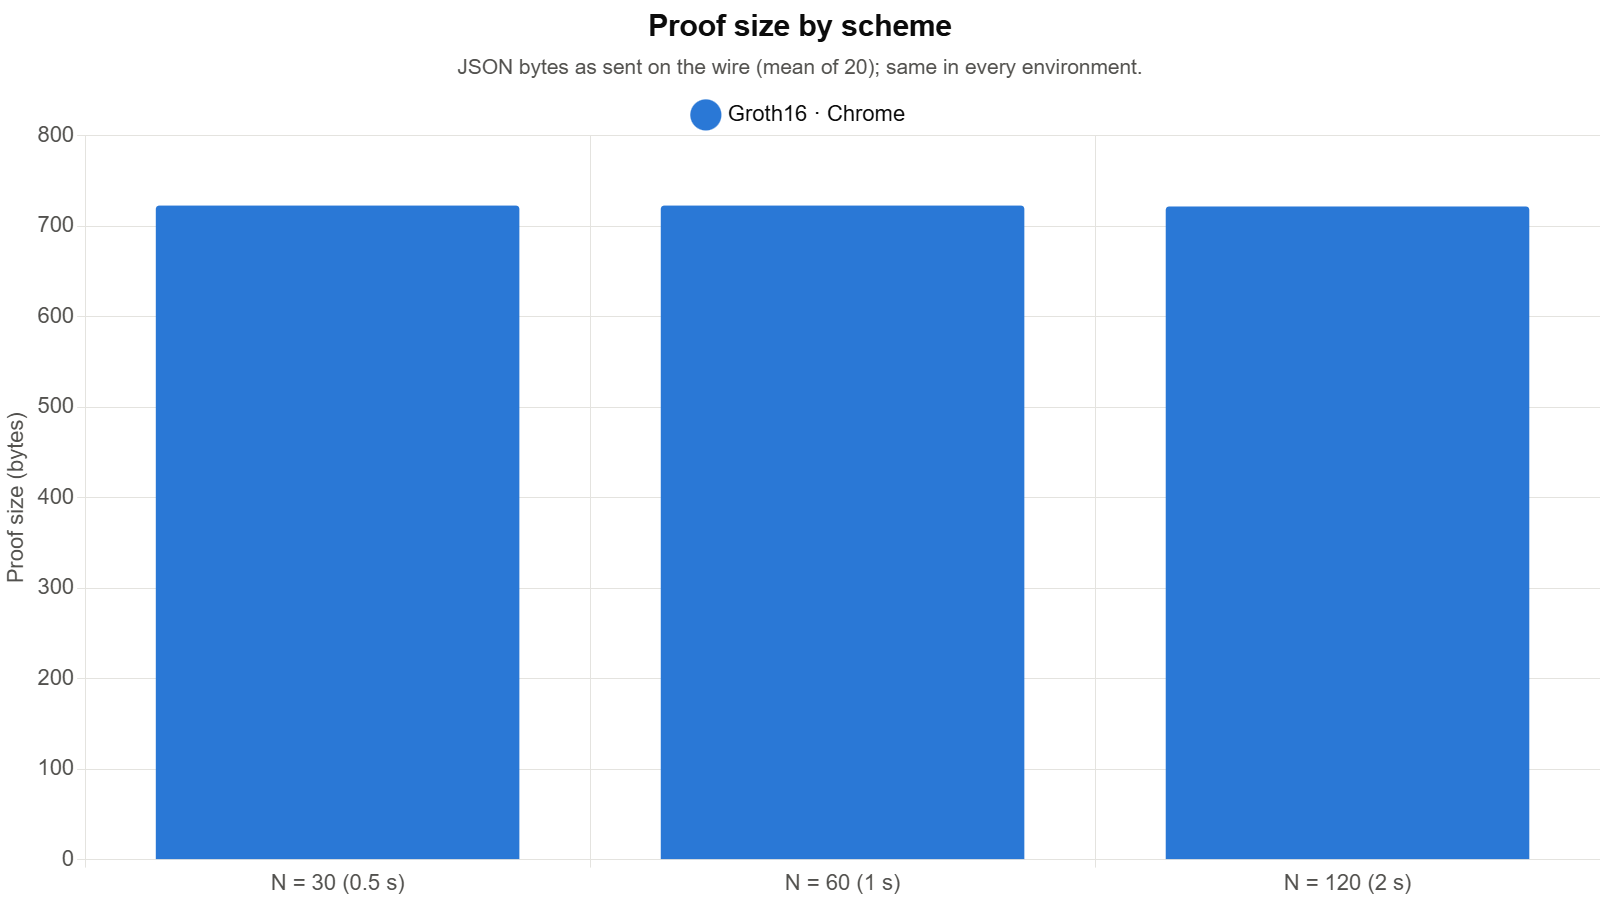
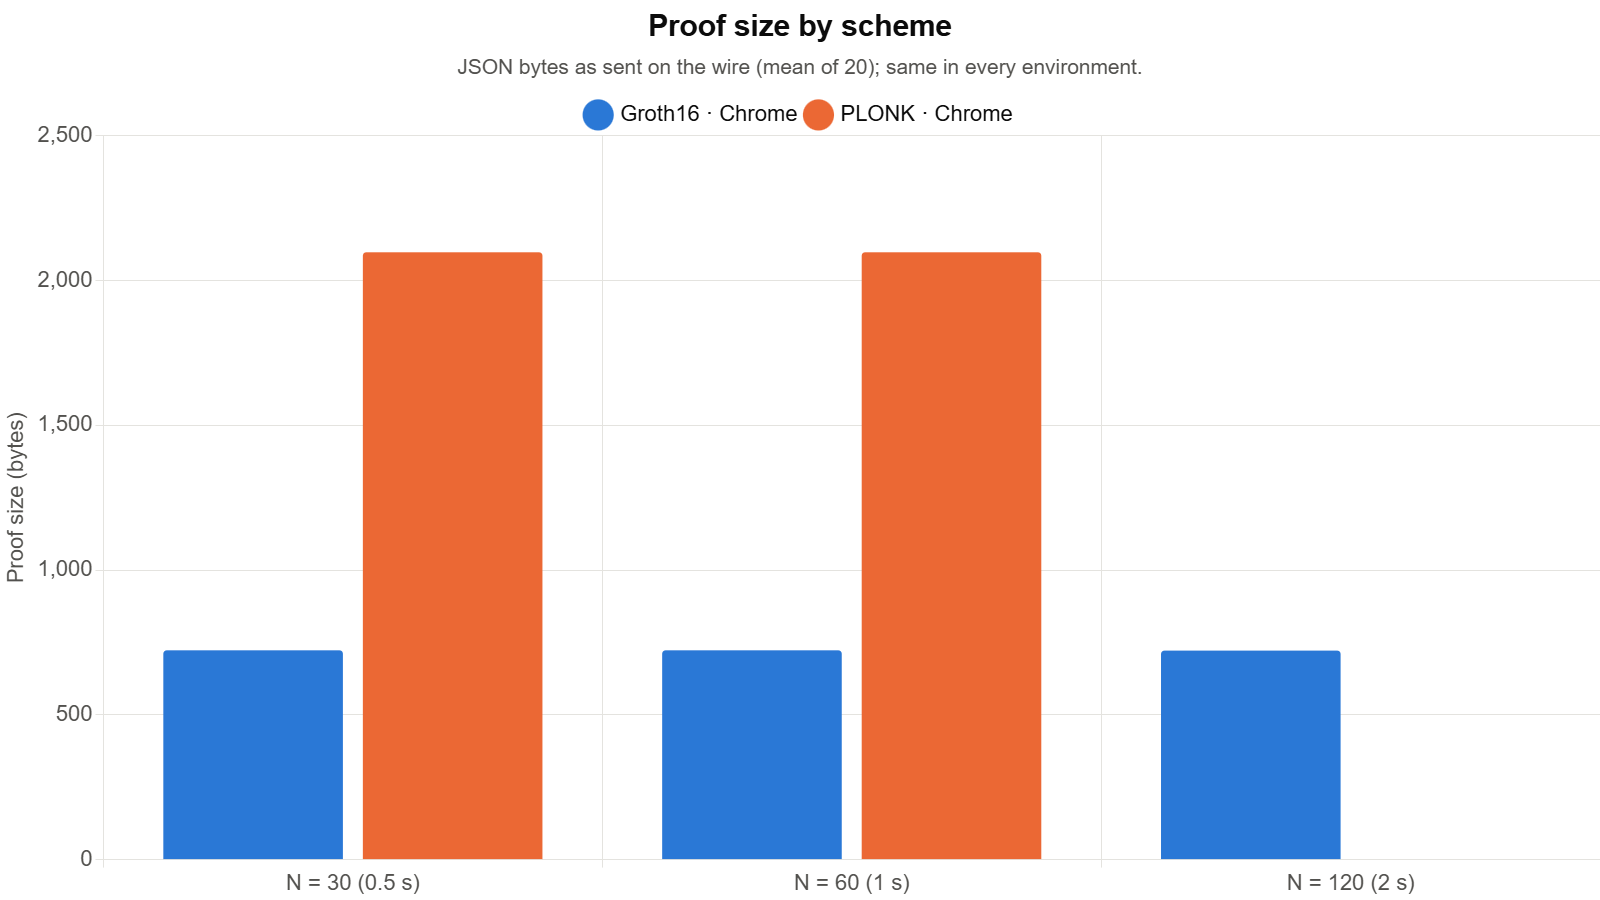
Phase 5: PLONK Chrome runs, RESULTS.md + charts with all 12 variant rows
- Chrome plonk_30 1+3 (p50 147.5 s, 7.0 GiB), plonk_60 one proof
  (397.9 s, 15.5 GiB), plonk_120 failed: 'Failed to fetch' (3.96 GiB zkey)
- /bench: default 'best run per variant (all runs)', chart subtitle
  states the real n per point
- RESULTS.md: PLONK table (impractical), caveats (idle driver overlap,
  plonk_120 partial record vs complete run, duplicate DB row open)

diff --git a/client/src/ui/benchPage.ts b/client/src/ui/benchPage.ts
@@ -103,6 +103,9 @@ function tableOf(envs: EnvAggregates[]): HTMLElement {
   );
 }
 
+/** Run-selector value: combine all runs of the environment (see loadRun). */
+const BEST = '*';
+
 export function benchPage(onBack: () => void): { el: HTMLElement; dispose: () => void } {
   const charts: { destroy(): void }[] = [];
   let envs: EnvAggregates[] = [];
@@ -137,24 +140,43 @@ export function benchPage(onBack: () => void): { el: HTMLElement; dispose: () =>
     table.replaceChildren(tableOf(envs));
   }
 
+  const runIds: Record<'browser' | 'node', string[]> = { browser: [], node: [] };
+
   async function loadRun(env: 'browser' | 'node', id: string): Promise<void> {
     const others = envs.filter((e) => e.env !== env);
     if (!id) {
       envs = others;
       return;
     }
-    const r = await api.benchRun(id);
-    const label = `${new Date(r.run.createdAt).toLocaleString()} · ${r.run.deviceLabel}`;
-    envs = [...others, { env, label, variants: r.variants }].sort((a, b) =>
-      a.env.localeCompare(b.env),
-    );
     const link = env === 'browser' ? csvBrowser : csvNode;
-    link.setAttribute('href', api.benchCsvUrl(id));
+    let label: string;
+    let variants: EnvAggregates['variants'];
+    if (id === BEST) {
+      // one variant per (scheme, N) across all runs: most samples wins, newest on a tie (ids are
+      // newest first) — Phase 5 ran Groth16 and each PLONK variant as separate runs
+      const best = new Map<string, EnvAggregates['variants'][number]>();
+      const all = await Promise.all(runIds[env].map((i) => api.benchRun(i)));
+      for (const r of all)
+        for (const v of r.variants) {
+          const k = `${v.scheme}_${v.windowTicks}`;
+          if ((best.get(k)?.n ?? 0) < v.n) best.set(k, v);
+        }
+      variants = [...best.values()];
+      label = `best run per variant (${all.length} runs) · ${all[0]?.run.deviceLabel ?? ''}`;
+      link.removeAttribute('href');
+    } else {
+      const r = await api.benchRun(id);
+      label = `${new Date(r.run.createdAt).toLocaleString()} · ${r.run.deviceLabel}`;
+      variants = r.variants;
+      link.setAttribute('href', api.benchCsvUrl(id));
+    }
+    envs = [...others, { env, label, variants }].sort((a, b) => a.env.localeCompare(b.env));
   }
 
   function fill(sel: HTMLSelectElement, runs: BenchRunMeta[]): void {
     sel.replaceChildren(
       h('option', { value: '' }, '— none —'),
+      h('option', { value: BEST }, 'Best run per variant (all runs)'),
       ...runs.map((r) =>
         h(
           'option',
@@ -163,12 +185,14 @@ export function benchPage(onBack: () => void): { el: HTMLElement; dispose: () =>
         ),
       ),
     );
-    if (runs[0]) sel.value = runs[0].id;
+    if (runs[0]) sel.value = BEST;
   }
 
   async function init(): Promise<void> {
     try {
       const runs = await api.benchRuns();
+      for (const env of ['browser', 'node'] as const)
+        runIds[env] = runs.filter((r) => r.environment === env).map((r) => r.id);
       fill(
         selBrowser,
         runs.filter((r) => r.environment === 'browser'),

diff --git a/client/src/bench/benchCharts.ts b/client/src/bench/benchCharts.ts
@@ -147,6 +147,14 @@ function envStyle(env: Env, t: Theme) {
 }
 
 /** Chart 1: prove time vs N — median line, p5–p95 band, dashed play-time line. */
+/** "20", or "1–20" when variants have different sample counts (Phase 5: fewer PLONK samples). */
+function sampleRange(envs: EnvAggregates[]): string {
+  const ns = envs.flatMap((e) => e.variants.map((v) => v.n));
+  const lo = Math.min(...ns);
+  const hi = Math.max(...ns);
+  return lo === hi ? `${hi}` : `${lo}–${hi}`;
+}
+
 export function proveVsN(envs: EnvAggregates[], t: Theme): ChartConfiguration<'line'> {
   const datasets: ChartDataset<'line', (number | null)[]>[] = [];
   for (const e of envs) {
@@ -199,7 +207,7 @@ export function proveVsN(envs: EnvAggregates[], t: Theme): ChartConfiguration<'l
     options: base(
       t,
       'Prove time vs window size',
-      'Median of 20 samples, band = p5–p95. Below the dashed line = proving keeps up with play.',
+      `Median of n = ${sampleRange(envs)} samples per point, band = p5–p95. Below the dashed line = proving keeps up with play.`,
       'Prove time (ms, log scale)',
       true,
     ),

diff --git a/bench/RESULTS.md b/bench/RESULTS.md
@@ -7,7 +7,7 @@ All numbers below are from **one session on 2026-10-12** (after a reboot), so th
 - **AC power, Windows "Performance" scheme + "Best performance" overlay** for every sample. A watcher logged the power state every 5 s during the runs (and would restore the scheme if ASUS Armoury Crate switched it); **no mode change or charger drop happened**, so no sample was re-run.
 - Idle CPU load before the runs: 2–13 %. Pre-run check (groth16_60, Node, 2 warm-ups + 3 samples): prove p50 **1.17 s**, within 10 % of the clean 1.24 s reference → measured runs started. That check and an earlier slow pre-reboot check (1.92 s) are kept in `bench/out/excluded/` and are **not** used here.
 - Input: deterministic bench log `bench-seed42-2640t.jsonl` (seed 42, sha256 `3e254c95…4d67`), sliced into windows of N ticks; the same windows for every variant and environment.
-- Groth16: 2 warm-ups (not stored) + **20 samples** per variant and environment. Valid = proof verifies **and** the public signals equal the JS reference.
+- Groth16: 2 warm-ups (not stored) + **20 samples** per variant and environment. PLONK: fewer samples (owner decision, see below). Valid = proof verifies **and** the public signals equal the JS reference.
 
 ## Groth16
 
@@ -38,9 +38,31 @@ Today's numbers are 3–7 % (Node) and 4–12 % (Chrome) **faster** than the ear
 - Chrome proving is 9–13 % slower than Node (p50).
 - **Memory:** Node = peak process RSS. Chrome = peak private bytes summed over **all processes of the test browser**, so it includes the browser's own baseline, which varied between tabs (2.36 GiB before groth16_30/60, 0.27 GiB before groth16_120). The Chrome column is therefore an upper bound, not the prover's memory alone.
 
-## Charts
-- `bench/out/charts/prove-time-vs-n.png` — p50 with p5–p95 band, log scale, with the play-time line (below it = keeps up with play).
-- `verify-time.png`, `proof-size.png`, `r-max-vs-n.png`, `detection-matrix.png` (Phase 4 detection experiment).
+## PLONK — impractical for live play on this laptop
 
-## PLONK
-_Pending (next step)._
+Same circuits, same input windows, snarkjs PLONK (universal setup, ptau up to power 21). Owner decision: fewer samples, because one PLONK proof takes 2.5–12 min here.
+
+| env | variant | R1CS / PLONK constraints | zkey | warm-ups + samples (valid) | prove mean s | p5 | p50 | p95 | verify p50 ms | proof B | peak MiB | prove/play | r_max |
+|---|---|---|---|---|---|---|---|---|---|---|---|---|---|
+| Node | plonk_30 | 16,968 / 270,648 | 0.99 GiB | 1 + 5 (5) | 162.7 | 162.3 | 162.6 | 163.0 | 8.3 | 2,098 | 5,178 | 325 | 0.003 |
+| Node | plonk_60 | 32,748 / 530,058 | 1.98 GiB | 1 + 5 (5) | 327.3 | 325.3 | 327.0 | 329.7 | 8.8 | 2,101 | 9,374 | 327 | 0.003 |
+| Node | plonk_120 | 64,308 / 1,097,478 | 3.96 GiB | 1 + 3 (3) | 703.2 | 691.9 | 705.6 | 712.2 | 14.3 | 2,098 | 11,147 | 352 | 0.003 |
+| Chrome | plonk_30 | 16,968 / 270,648 | 0.99 GiB | 1 + 3 (3) | 147.6 | 147.3 | 147.5 | 147.8 | 11.6 | 2,098 | 6,969 | 295 | 0.003 |
+| Chrome | plonk_60 | 32,748 / 530,058 | 1.98 GiB | 0 + 1 (1) | 397.9 | – | 397.9 | – | 28.1 | 2,098 | 15,492 | 398 | 0.003 |
+| Chrome | plonk_120 | 64,308 / 1,097,478 | 3.96 GiB | 0 + 0 | **failed** | | | | | | | | |
+
+- **Chrome plonk_120 result = error:** the zkey download failed after 9 s with `Failed to fetch` (exact error, no proof attempted; no retry, per plan). The zkey is 3.96 GiB. I have not confirmed which browser limit was hit (size of one response body / ArrayBuffer vs memory). Not uploaded (an upload needs ≥ 1 sample); recorded in `bench/out/raw/browser-…` for that run.
+- **Memory is the limit, not just time:** Chrome plonk_60 peaked at **15.5 GiB** of the laptop's 16 GB (one proof only, as planned). Node plonk_120 peaked at 11.1 GiB; during that run Claude Code's own memory guard reaped the background shell (the Node process itself survived and finished 3/3 valid, see below).
+- PLONK proves **170–320× slower than Groth16** at the same N (p50; Node 216× at N = 30 up to 319× at N = 120, Chrome 173–319×). prove/play ≈ 300–400: a 1-second window takes 5–7 minutes to prove, so r_max ≈ 0.003 — **not usable for live spot-checks or a post-match audit** on this hardware. The cause is the PLONK constraint count (≈ 16–17 × the R1CS count: every gate, including additions, becomes a PLONK row) and the larger FFTs.
+- PLONK proofs are ≈ 2.1 kB vs 0.72 kB for Groth16; verify time is similar (8–28 ms). PLONK's advantage — a universal, circuit-independent setup with no per-circuit phase-2 ceremony — does not offset the proving cost here.
+- Chrome plonk_30 was 9 % **faster** than Node (147.6 vs 162.7 s); for Groth16 Chrome was slower. Observed, not explained (n = 3 vs 5).
+- Chrome memory for PLONK: the test browser's baseline was 0.31–0.36 GiB before each PLONK variant (one fresh browser per variant), so these peaks are mostly the prover.
+
+### Caveats for the PLONK runs
+- **Idle driver process overlapping plonk_30/60 Node (and the start of plonk_120):** the Chrome Groth16 driver's process stayed alive from its last output (16:24) until 17:54 because a 90-min timeout timer was never cleared. The browser had already closed and the charts were exported, so the process was idle on a timer; the expected effect is negligible, and the plonk_30/60 samples are tight (p5–p95 within 0.4 % / 1.4 %). Fixed in `client/scripts/bench-browser.ts` (`81bc898`).
+- **plonk_120 Node:** I first reported this run as stopped at sample 2 (the reaped shell's log ended there) and recorded the logged warm-up + sample 1 as a partial result. The Node process had in fact finished all 3 samples and uploaded them, so the complete run is used; the partial record is in `bench/out/excluded/`. Its database copy (run `7b5f5110…`, 1 sample duplicating sample 1 of the complete run) is **still in the database** — `bench/out/results.csv` therefore lists that sample twice until it is removed. The dashboard's default "best run per variant" picks the complete run.
+
+## Charts
+`bench/out/charts/` (exported from the `/bench` dashboard, default selection "Best run per variant (all runs)": per scheme × N, the run with the most samples):
+- `prove-time-vs-n.png` — p50 with p5–p95 band, log scale, Groth16 and PLONK for Node and Chrome, with the play-time line (below it = keeps up with play). The subtitle states n per point (1–20).
+- `verify-time.png`, `proof-size.png`, `r-max-vs-n.png`, `detection-matrix.png` (Phase 4 detection experiment). Chrome plonk_120 has no point (failed).

diff --git a/docs/CHANGELOG.md b/docs/CHANGELOG.md
@@ -11,6 +11,16 @@ Every entry that changes the circuit must state: new constraint count per varian
 ### Planned (see TODO.md)
 - Phase 5: benchmarks (all 6 variants, Node + browser runner, dashboard, CSV).
 
+### Phase 5 — benchmark runs — 2026-10-12
+Results and conditions: `bench/RESULTS.md`. All 6 variants measured in one session (AC, Performance scheme, power watcher: no events). Groth16 2 warm-ups + 20 samples (Node + Chrome); PLONK with fewer samples (owner decision); Chrome plonk_120 failed to load its 3.96 GiB zkey (`Failed to fetch`, recorded as the result).
+#### Changed
+- `/bench` dashboard: new default run selection "Best run per variant (all runs)" (per scheme × N the run with the most samples, newest on a tie), because Groth16 and each PLONK variant were separate runs. Prove-time chart subtitle states the real n per point instead of "20".
+- `bench/tables.ts`: RESULTS.md tables from the raw run files.
+#### Fixed
+- `bench:browser` stayed alive for 90 min after a run (uncleared per-variant timeout timer); it now clears the timer and exits.
+#### Open
+- A duplicate partial plonk_120 Node run (`7b5f5110…`, 1 sample) is in the database; removal awaits the owner.
+
 ### First-person WASD (input only, owner request) — 2026-10-12
 No change to sim rules, protocol, circuit or constants: the per-axis bound |Δx|, |Δy| ≤ MAX_SPEED that `checkTick` and `SpeedCheck` enforce is unchanged; only what the input layer asks for changes.
 #### Changed
